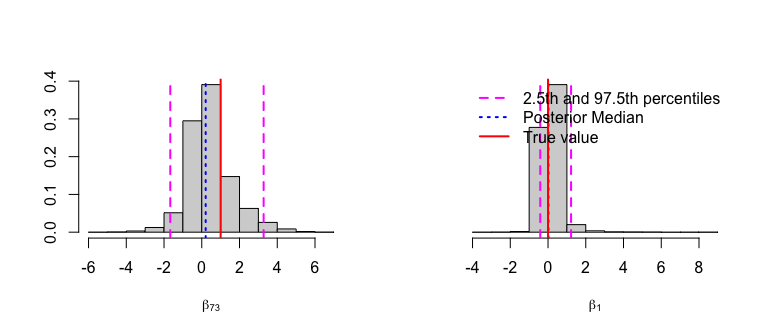
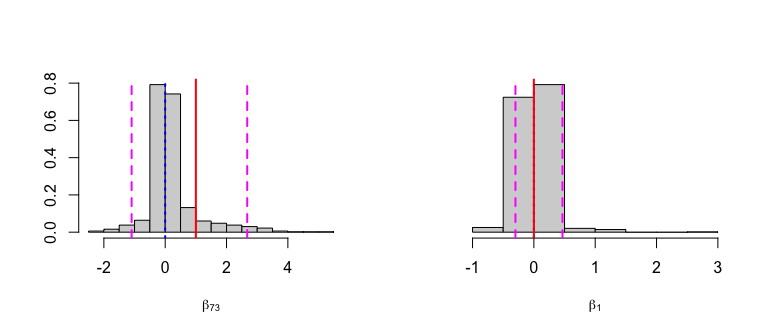
Updated Readme

diff --git a/README.md b/README.md
@@ -75,20 +75,10 @@ res <- BayesCoMET::comet(y = y_train, xlist = xlist_train, zlist = zlist_train,
                          mis = rep(n_train, m),
                          K = 6, kdims = kdims, a0 = 0.01, b0 = 0.01, gammaVar0 = c(1, 1),
                          R_list = R_list, S_list = S_list,
-                         niter = 11000, nburn = 1000, nthin = 1, store_ranef = TRUE)
+                         niter = 1100, nburn = 100, nthin = 1, store_ranef = TRUE)
 ```
 
-    ## iteration:  1000 
-    ## iteration:  2000 
-    ## iteration:  3000 
-    ## iteration:  4000 
-    ## iteration:  5000 
-    ## iteration:  6000 
-    ## iteration:  7000 
-    ## iteration:  8000 
-    ## iteration:  9000 
-    ## iteration:  10000 
-    ## iteration:  11000
+    ## iteration:  1000
 
 ``` r
 betaPostMed <- apply(res$betaSamp, 2, median)
@@ -111,14 +101,29 @@ hist(res$betaSamp[, 1], freq = FALSE, col = "lightgrey", border = "black",
 abline(v = quantile(res$betaSamp[, 1], c(0.025, 0.975)), col = "magenta", lty = 2, lwd = 2)
 abline(v = quantile(res$betaSamp[, 1], 0.5), col = "blue", lty = 3, lwd = 2)
 abline(v = vecB_true[1], col = "red", lty = 1, lwd = 2)
-
-legend("topright",
-       legend = c("2.5th and 97.5th percentiles", "Posterior Median", "True value"),
-       col = c("magenta", "blue", "red"), lty = c(2, 3, 1), lwd = 2,
-       bty = "n")
 ```
 
 ![](README_files/figure-gfm/visualize_betaSamps-1.png)<!-- -->
+
+``` r
+# legend("topright",
+#        legend = c("2.5th and 97.5th percentiles", "Posterior Median", "True value"),
+#        col = c("magenta", "blue", "red"), lty = c(2, 3, 1), lwd = 2,
+#        bty = "n")
+par(mfrow = c(1,1))
+plot.new()
+legend("center",
+       legend = c("95% credible interval",
+                  "Posterior median",
+                  "True value"),
+       col = c("magenta", "blue", "red"),
+       lty = c(2, 3, 1),
+       lwd = 2,
+       horiz = TRUE,
+       bty = "n")
+```
+
+![](README_files/figure-gfm/visualize_betaSamps-2.png)<!-- -->
 
 ``` r
 par(op)
